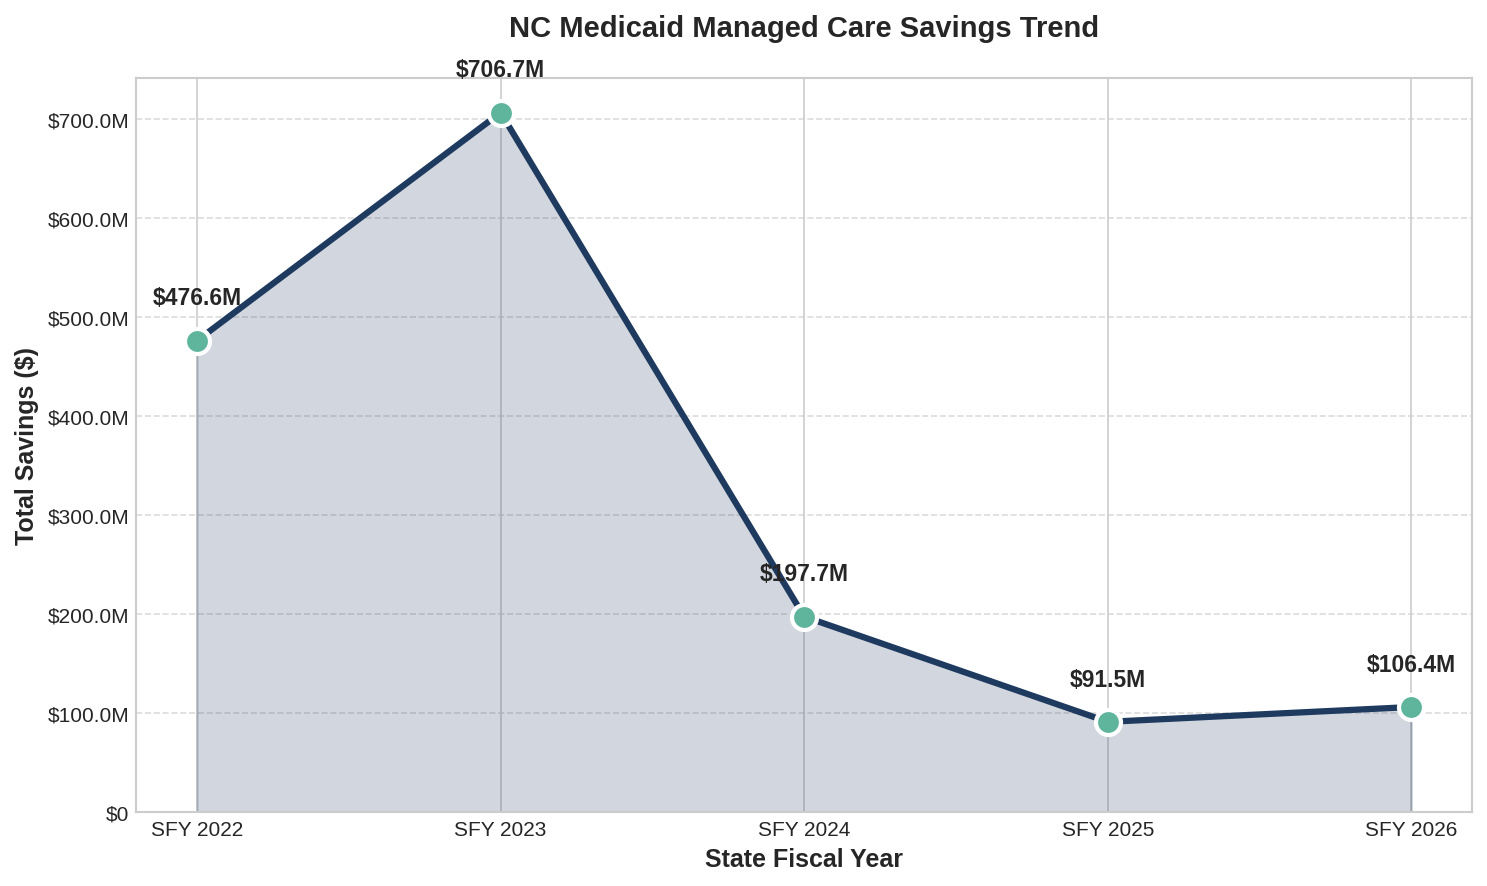
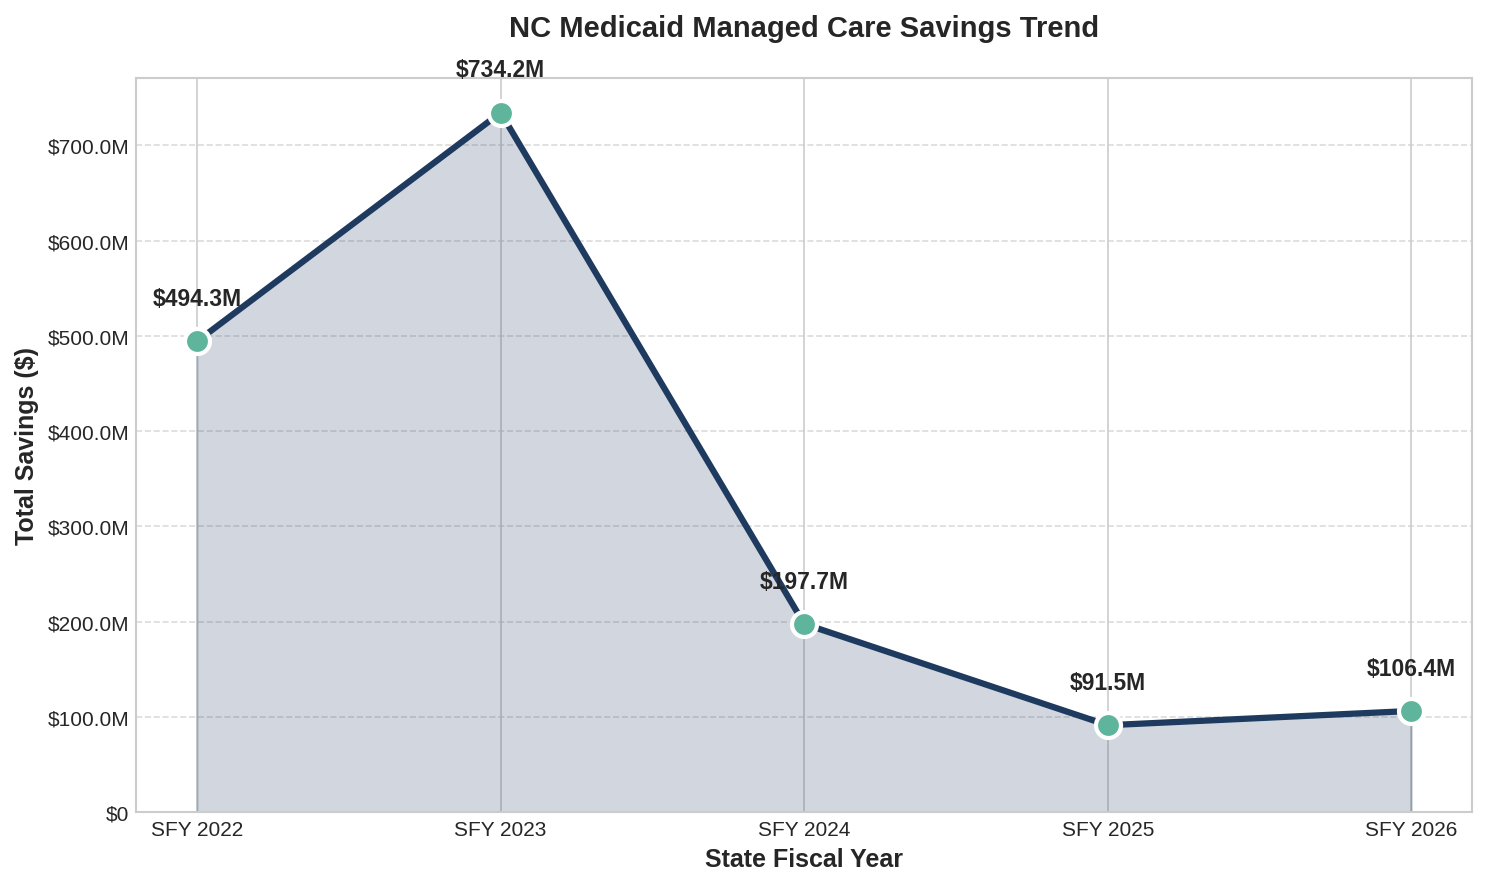
fix: changed calculation of trend months for SFY22 and SFY23

diff --git a/src/analysis.py b/src/analysis.py
@@ -3,7 +3,9 @@
 Methodology from AGENTS.md:
 For each region-rate_cell sheet:
 1. Start with the Current Year base PMPM in column C.
-2. Apply 24 months of trend: Base × (1 + Trend)^(24/12) (column F).
+2. Apply trend: Base × (1 + Trend)^(trend_months/12)
+   - SFY 2022 & 2023: 42 months of trend
+   - SFY >= 2024: 24 months of trend
 3. Layer in program changes: multiply by (1 + PC) (column I).
 4. The result is the *pre-MCS* PMPM.
 5. Multiplying that amount by the MCS percentage yields the PMPM reduction 
@@ -11,7 +13,8 @@ For each region-rate_cell sheet:
 6. Dollar savings = PMPM reduction × member-months.
 
 Formula reference:
-Capitation Rate = Base × (1 + Trend)^(24/12) × (1 + PC) × (1 + MCS)
+- SFY >= 2024: Capitation Rate = Base × (1 + Trend)^(24/12) × (1 + PC) × (1 + MCS)
+- SFY 2022 & 2023: Capitation Rate = Base × (1 + Trend)^(42/12) × (1 + PC) × (1 + MCS)
 """
 
 from typing import Dict, List, Any, Optional
@@ -69,6 +72,7 @@ def calculate_savings(
     program_changes_factor: float,
     mcs_factor: float,
     member_months: float,
+    sfy_id: int,
 ) -> Dict[str, float]:
     """
     Calculate managed care savings using the methodology from AGENTS.md.
@@ -79,6 +83,7 @@ def calculate_savings(
         program_changes_factor: Program changes factor (e.g., 0.008 for 0.8%)
         mcs_factor: Managed Care Savings factor (e.g., -0.05 for -5%)
         member_months: Number of member months
+        sfy_id: State Fiscal Year ID (2022, 2023, 2024, 2025, 2026, etc.)
     
     Returns:
         Dictionary with calculation results
@@ -96,9 +101,16 @@ def calculate_savings(
     program_changes_factor = program_changes_factor or 0.0
     mcs_factor = mcs_factor or 0.0
     
-    # Step 1-2: Apply 24 months of trend
-    # trend_pmpm = base_pmpm × (1 + trend)^(24/12)
-    trended_pmpm = base_pmpm * ((1 + trend_factor) ** (24 / 12))
+    # Determine trend months based on SFY
+    # SFY 2022 & 2023 use 42 months, SFY >= 2024 use 24 months
+    if sfy_id in [2022, 2023]:
+        trend_months = 42
+    else:
+        trend_months = 24
+    
+    # Step 1-2: Apply trend based on SFY
+    # trend_pmpm = base_pmpm × (1 + trend)^(trend_months/12)
+    trended_pmpm = base_pmpm * ((1 + trend_factor) ** (trend_months / 12))
     
     # Step 3: Layer in program changes
     # pre_mcs_pmpm = trended_pmpm × (1 + PC)
@@ -174,6 +186,7 @@ def analyze_savings(sfy_filter: Optional[int] = None) -> pd.DataFrame:
                 program_changes_factor=rate_data.program_changes_pmpm,
                 mcs_factor=rate_data.mcs_adjustment,
                 member_months=rate_data.member_months,
+                sfy_id=rate_data.sfy_id,
             )
             
             result = SavingsResult(

diff --git a/cumulative.py b/cumulative.py
@@ -102,6 +102,3 @@ for y, annual, cumul in zip(years, savings, cumulative_savings):
     print(f'  SFY {y}: Annual {format_currency(annual):>10} | Cumulative {format_currency(cumul):>10}')
 print('-' * 50)
 print(f'  TOTAL CUMULATIVE SAVINGS: {format_currency(total)}')
-
-
-scatter

diff --git a/AGENTS.md b/AGENTS.md
@@ -26,17 +26,24 @@ Capitation rate files (.xlxs) for NC Medicaid managed care plans from SFY 2024 t
 ### Methodology for Managed Care Savings Analysis
 These figures are calculated from the managed care savings factors given in Mercer’s rate calculation for each fiscal year. Note that this refers to the schema for the SFY2026 file. SFY24 and SFY25 may be slightly different. Ensure that data us mapped consistently across each file. 
 
+**Important:** The trend period varies by fiscal year:
+- SFY 2022 & 2023: Use 42 months of trend
+- SFY >= 2024: Use 24 months of trend
+
 For each region-COA sheet we:
 1. Start with the Current Year base PMPM in column C.  
-2. Apply 24 months of trend: `Base × (1 + Trend)^(24/12)` (column F).  
+2. Apply trend based on SFY:
+   - SFY 2022 & 2023: `Base × (1 + Trend)^(42/12)` (column F)
+   - SFY >= 2024: `Base × (1 + Trend)^(24/12)` (column F)  
 3. Layer in program changes: multiply by `(1 + PC)` (column I).  
 4. The result is the *pre-MCS* PMPM.  
 Multiplying that amount by the MCS percentage in column W yields the PMPM reduction attributable to managed-care efficiencies.  
-5. Dollar savings = PMPM reduction × FY-26 member-months (cell C7).  
+5. Dollar savings = PMPM reduction × member-months for the fiscal year.  
    We perform this calculation for every category and sum across regions.
 
-Formula reference:  
-Capitation Rate = Base × (1 + Trend)^(24/12) × (1 + PC) × (1 + MCS)
+Formula reference:  
+- SFY >= 2024: Capitation Rate = Base × (1 + Trend)^(24/12) × (1 + PC) × (1 + MCS)
+- SFY 2022 & 2023: Capitation Rate = Base × (1 + Trend)^(42/12) × (1 + PC) × (1 + MCS)
 
 This calculation is applied to medical costs prior to application of continuous coverage unwinding acuity adjustment, care management, premium taxes, and non-benefit expenses. 
 
